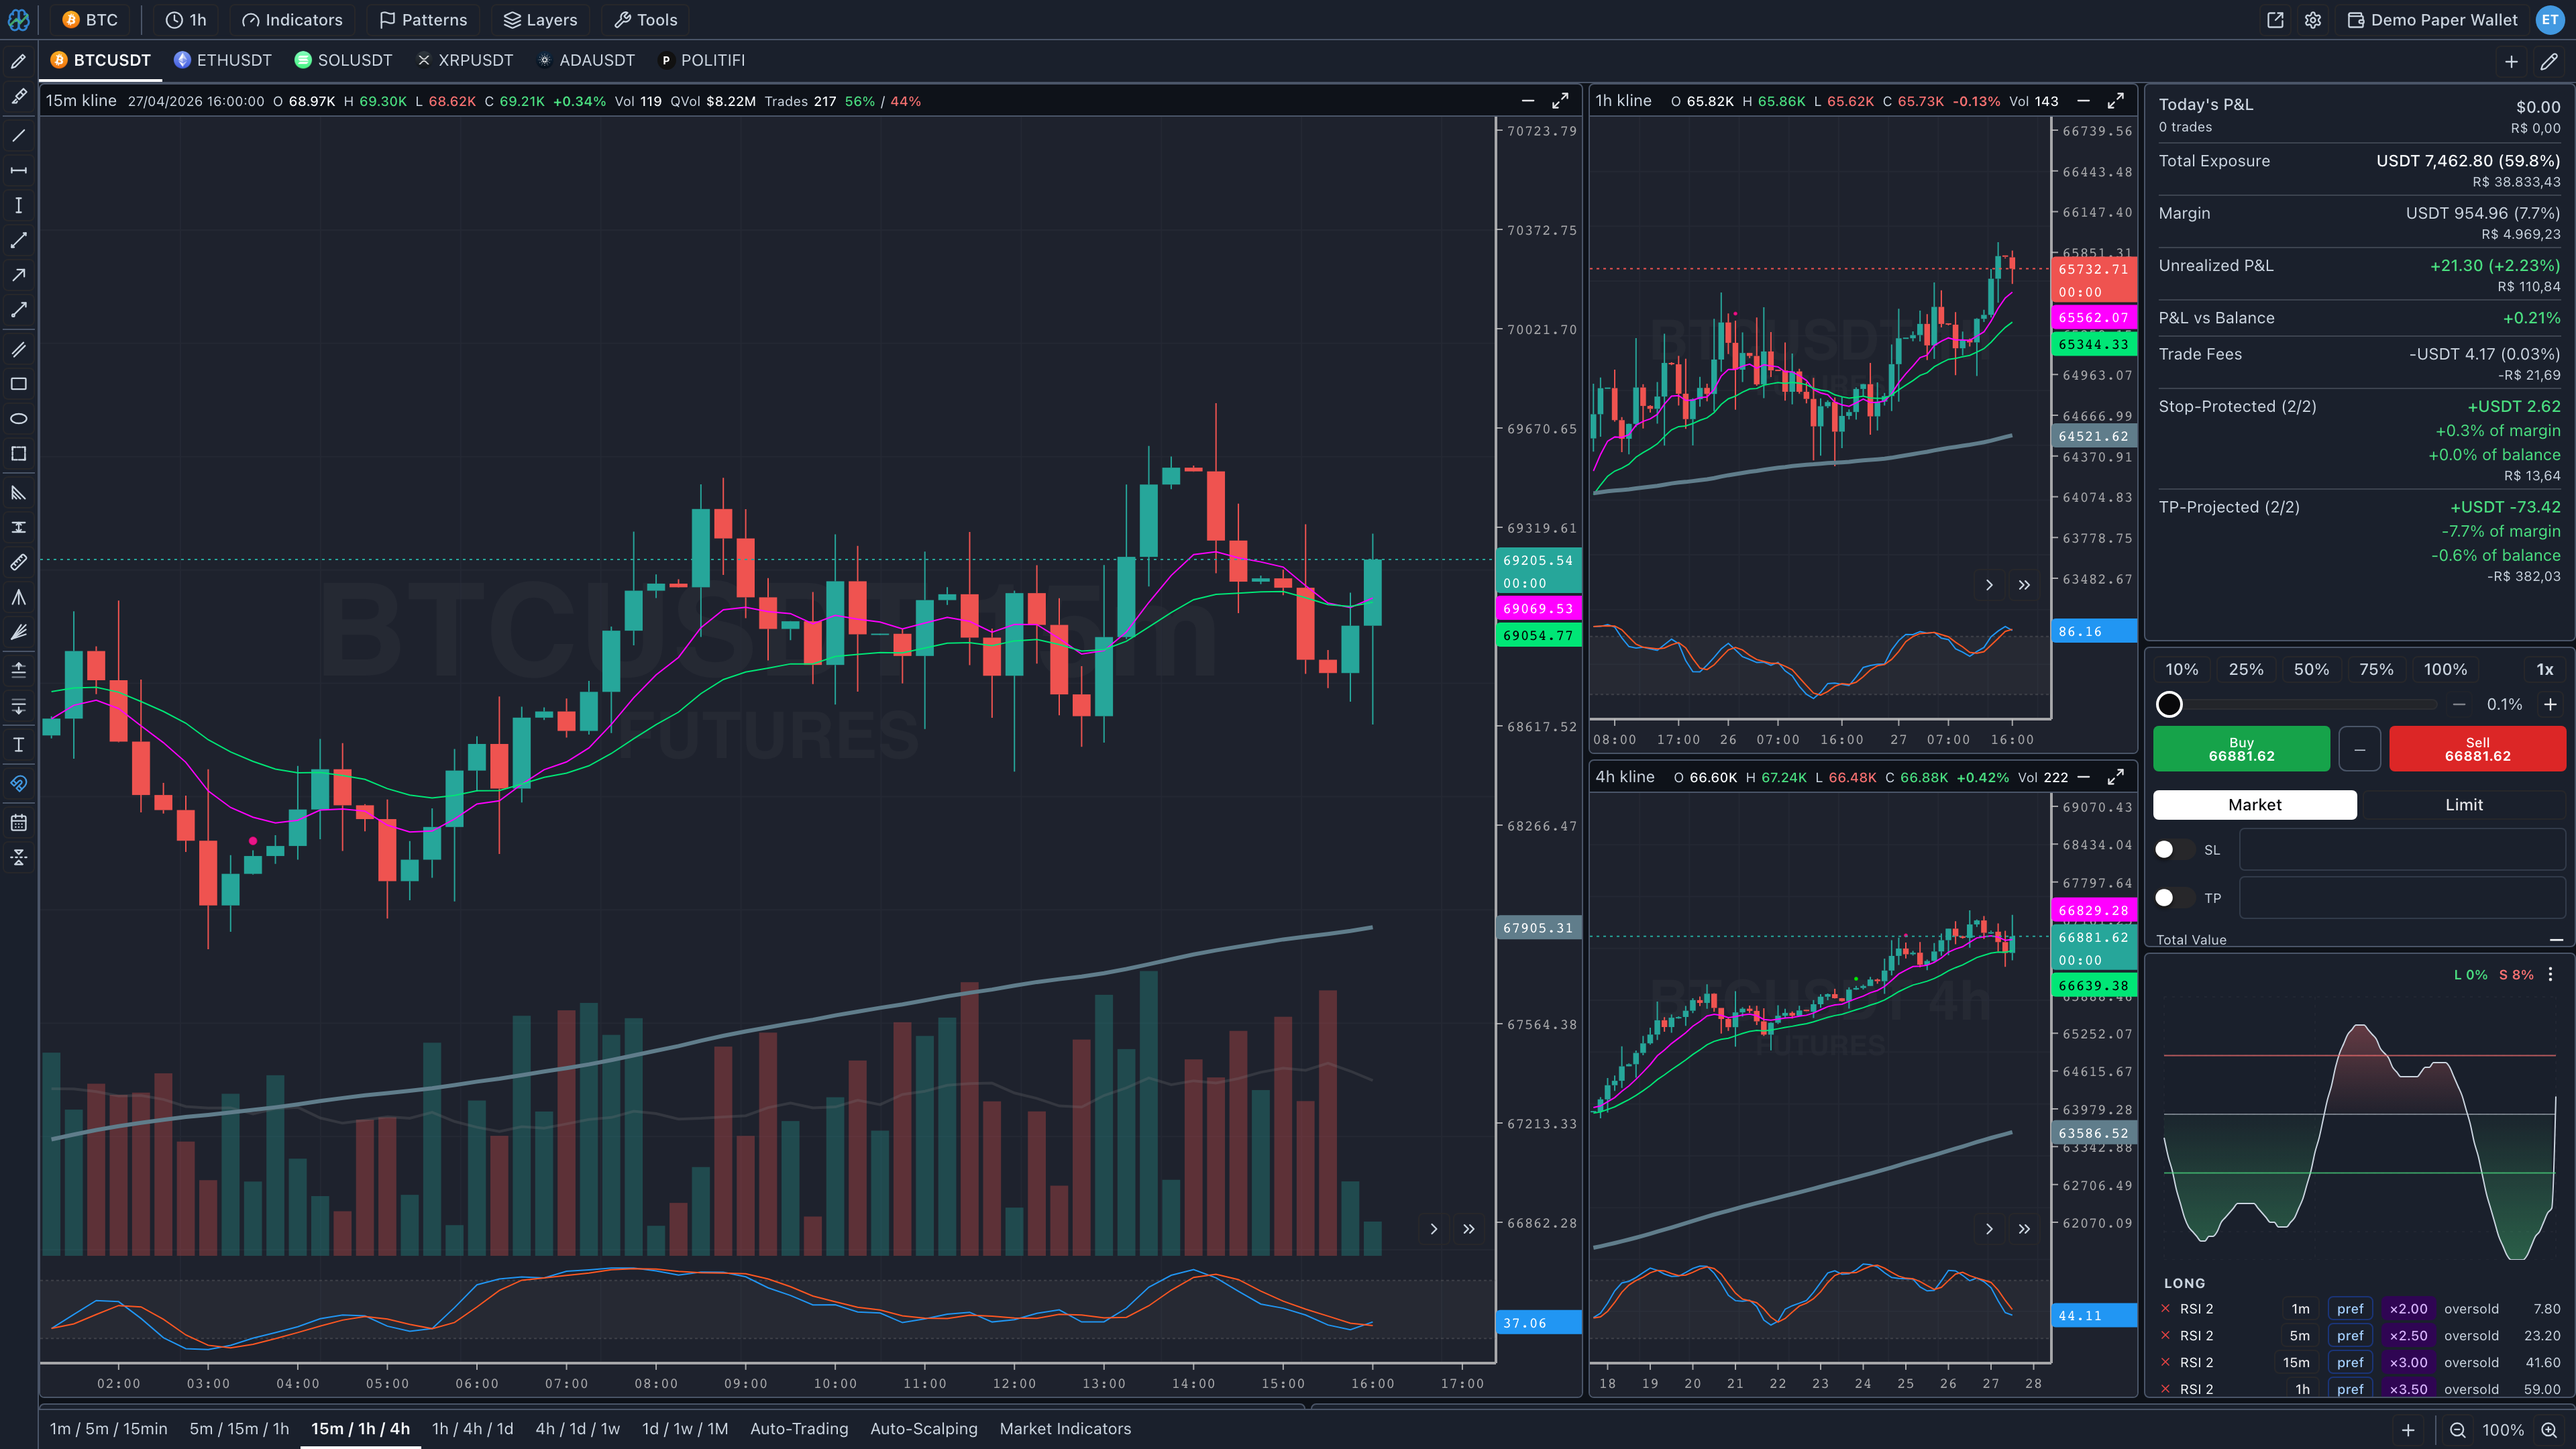
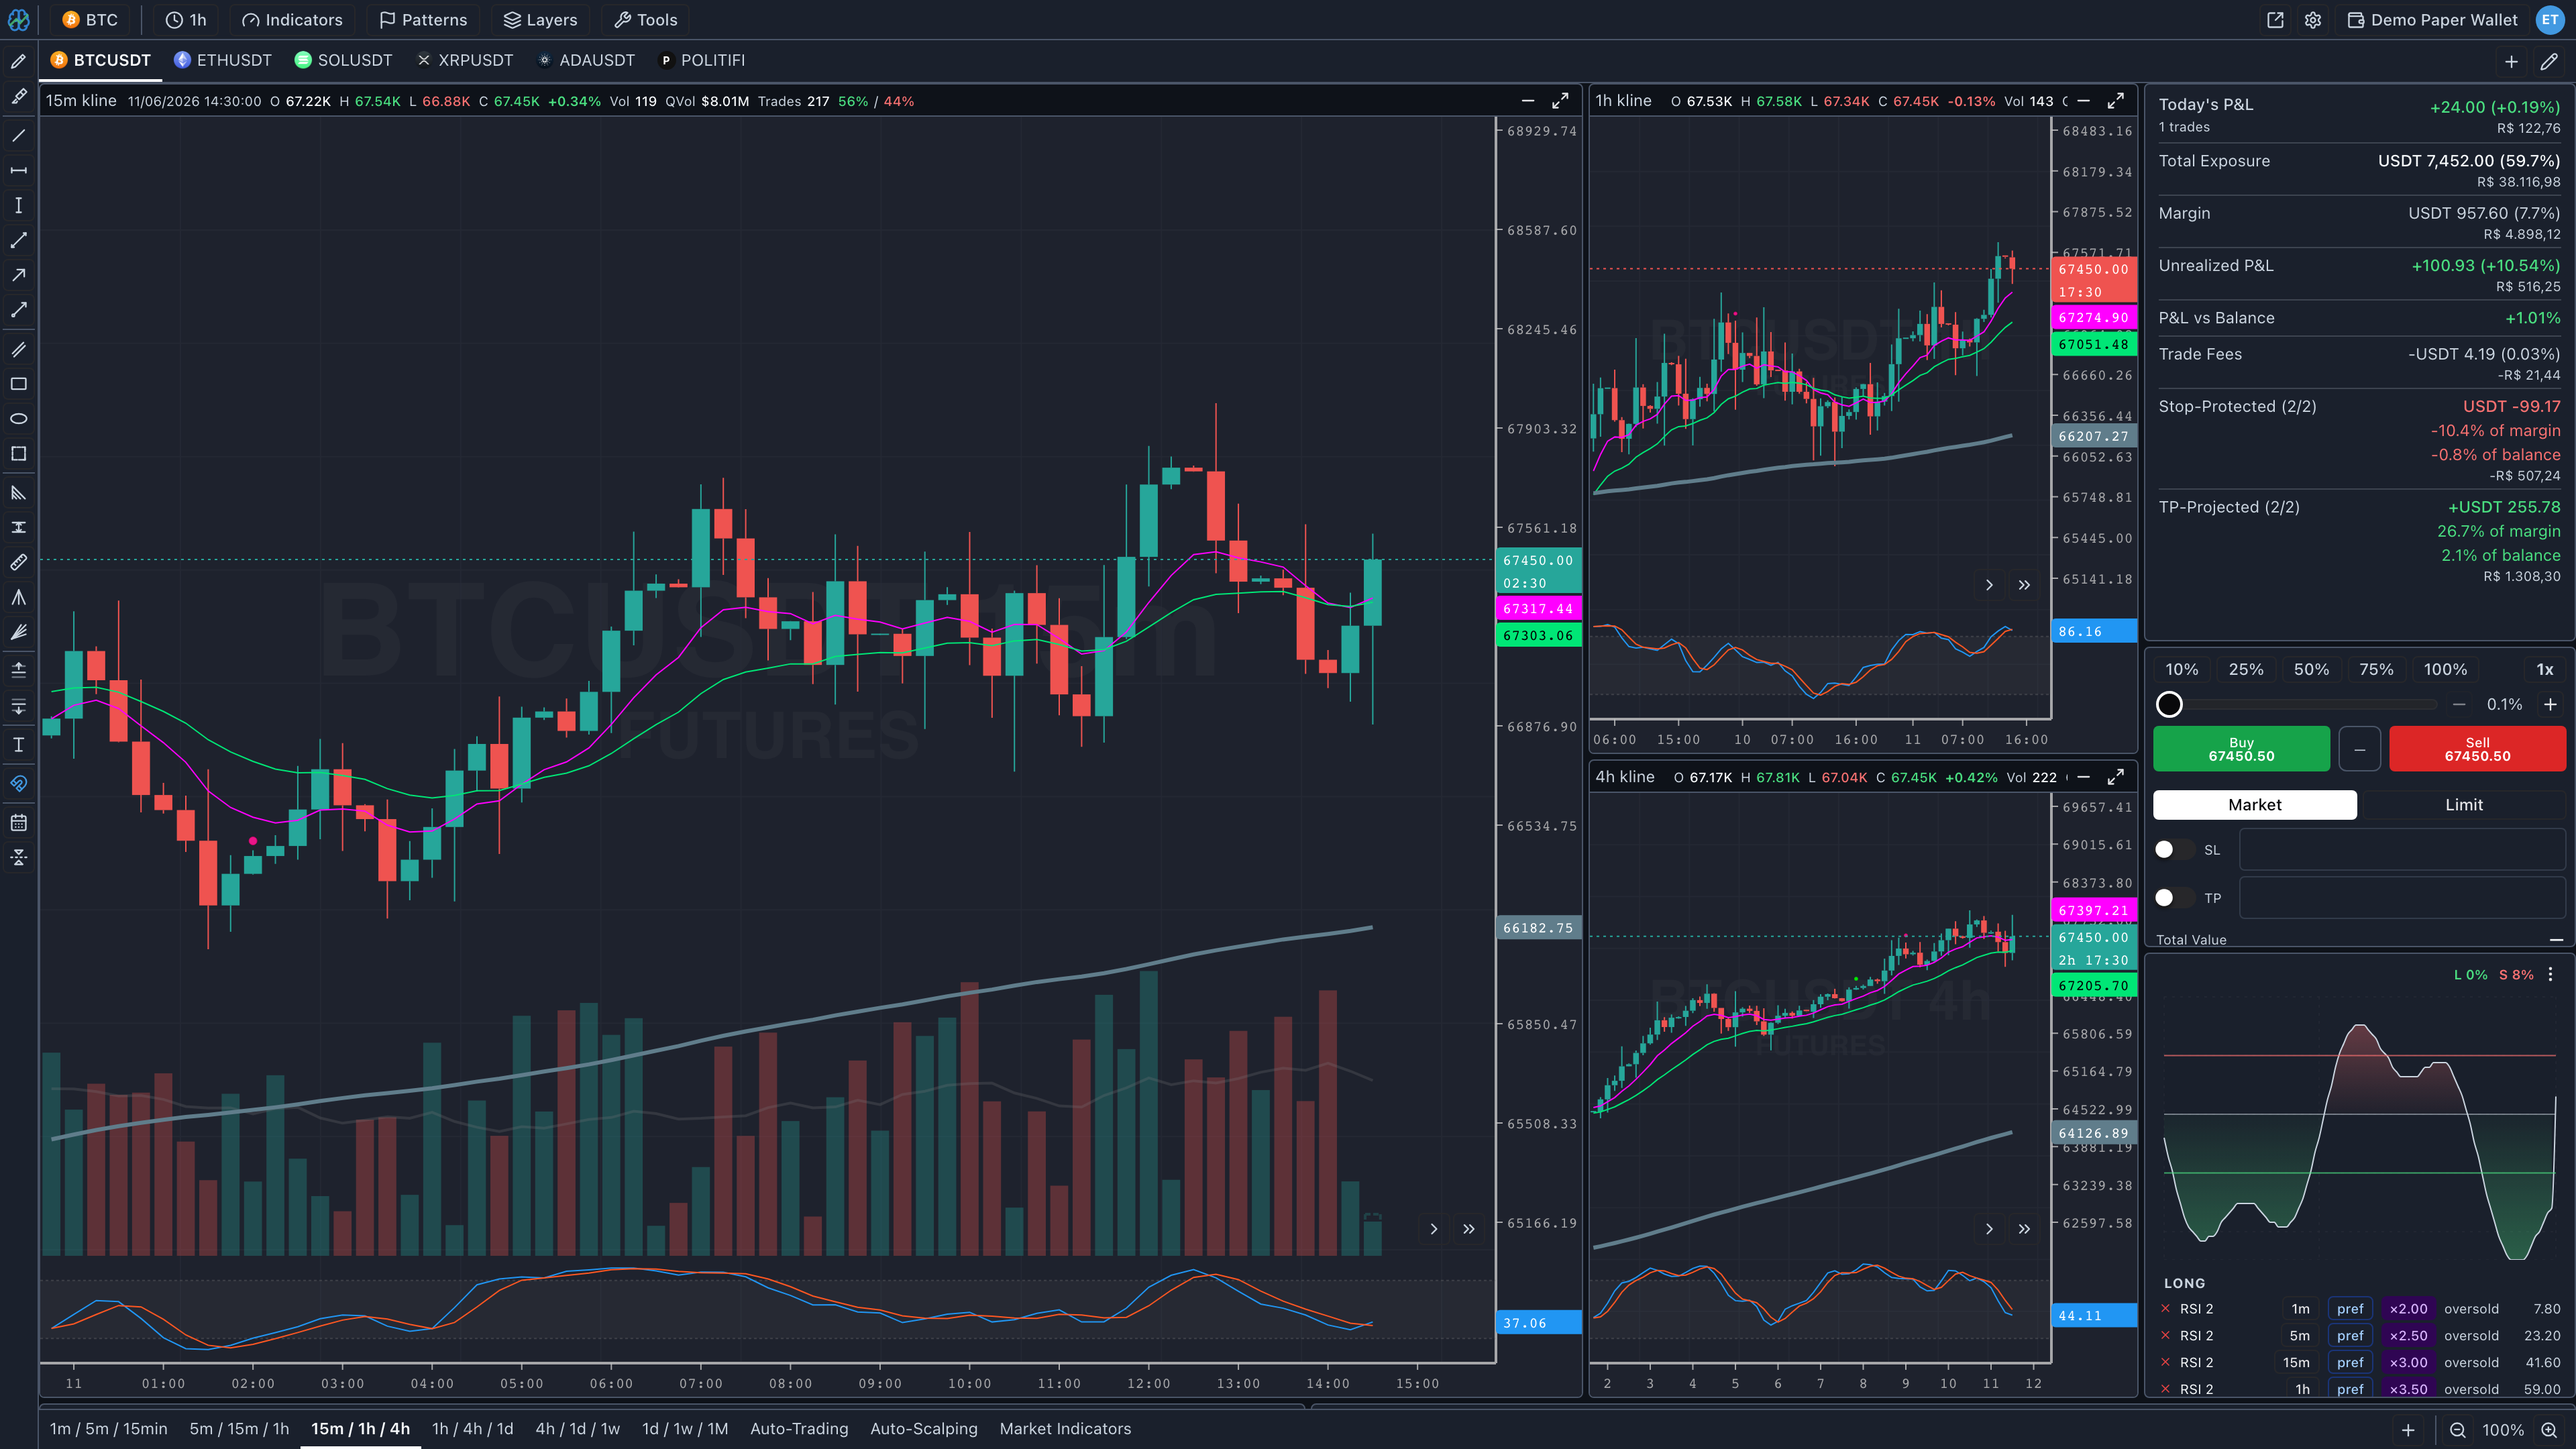
chore: refresh marketing screenshots + pointer cursor on all clickables
- Regenerate all marketing screenshots with realistic, live-looking data:
  populated Today's P&L, realistic open-position unrealized P&L, BTC Dominance
  sparkline, non-zero candle countdown, Order Book ladder + Order Flow metrics.
- Add light-theme dashboard + indicators scenes and a Classic B&W chart scene
  (screenshot-9/10/11), wired into the gallery.
- globals.css: restore cursor:pointer on buttons/links/[role=button] etc.
  (Tailwind v4 Preflight no longer sets it), so every clickable shows a pointer.

🤖 Generated with [Claude Code](https://claude.com/claude-code)

diff --git a/src/components/sections/Screenshots.tsx b/src/components/sections/Screenshots.tsx
@@ -11,6 +11,9 @@ const SCREENSHOTS = [
   { src: '/images/screenshot-5.png', alt: 'MarketMind Auto-Trading dialog with Trading Profiles, multi-asset watcher list (BTC / ETH / SOL futures), trading mode, and dynamic symbol selection' },
   { src: '/images/screenshot-6.png', alt: 'MarketMind Market Indicators dashboard — Altcoin Season Index, ADX trend strength, Order Book, Funding Rates, Fear & Greed, BTC Dominance, MVRV Ratio' },
   { src: '/images/screenshot-8.png', alt: 'MarketMind Wallets dialog with paper-trading wallets, balances, initial balances, and net P&L percentages' },
+  { src: '/images/screenshot-9.png', alt: 'MarketMind trading dashboard (15m / 1h / 4h) in light theme with multi-timeframe charts, Confluence scoring, and active positions' },
+  { src: '/images/screenshot-10.png', alt: 'MarketMind Market Indicators dashboard in light theme — Fear & Greed, BTC Dominance, MVRV Ratio, Altcoin Season, ADX, Order Book' },
+  { src: '/images/screenshot-11.png', alt: 'MarketMind swing trading layout (1h / 4h / 1d) with the Classic black-and-white chart palette' },
 ];
 
 export const Screenshots = () => {

diff --git a/src/app/globals.css b/src/app/globals.css
@@ -11,6 +11,25 @@ html {
   scroll-behavior: smooth;
 }
 
+/* Tailwind v4's Preflight no longer sets cursor:pointer on buttons. Restore it
+   for every interactive element so all clickables show the pointer cursor. */
+button:not(:disabled),
+[role='button'],
+[role='menuitem'],
+[role='tab'],
+[role='switch'],
+label[for],
+summary,
+a[href],
+select {
+  cursor: pointer;
+}
+
+button:disabled,
+[aria-disabled='true'] {
+  cursor: not-allowed;
+}
+
 body {
   font-family: var(--font-sans), system-ui, sans-serif;
 }
